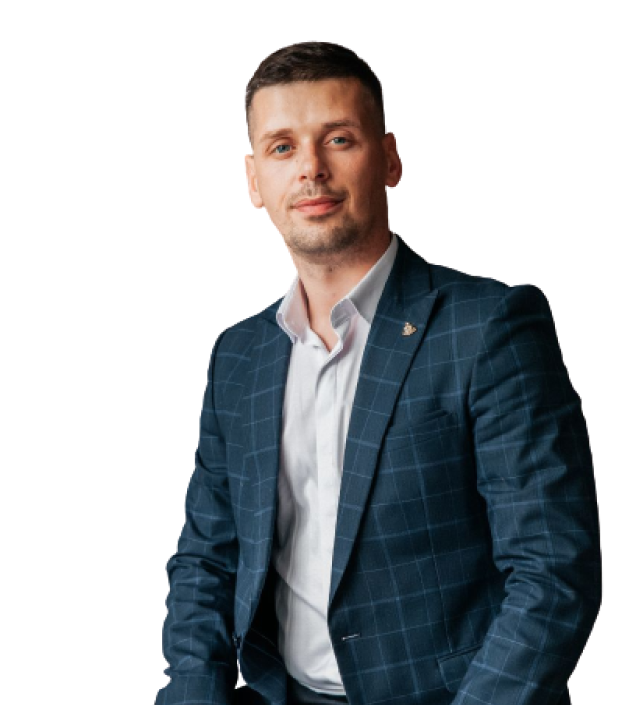
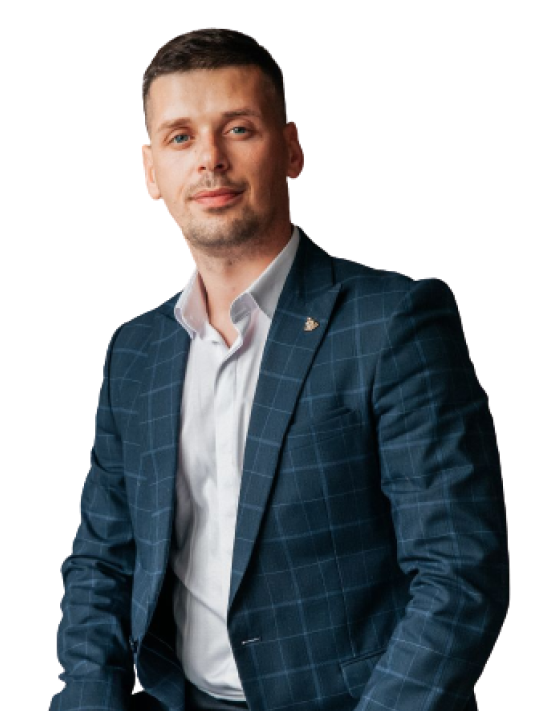
main done

diff --git a/css/styles.min.css b/css/styles.min.css
@@ -1,1 +1,1 @@
-*{font-family:'Gilroy'}.menu{max-height:76px;padding-top:14px;position:fixed;width:100%;background-color:rgba(0,0,0,0.2);z-index:2}.menu a{text-decoration:none}.menu_list{display:-webkit-box;display:-ms-flexbox;display:flex;margin-top:11px;list-style-type:none}.menu_list_item{margin-right:40px;font-style:normal;font-weight:400;font-size:18px;color:#f5f5f5;-webkit-transition:0.5s;transition:0.5s}.menu_list_item:hover{color:#f5f5f5;border-bottom:2px solid #DB3130}.menu_connect_number{display:block;font-style:normal;font-weight:400;font-size:16px;color:#f5f5f5}.menu_connect_number:hover{color:#f5f5f5}.menu_connect_img{margin-right:9px}.menu_connect_text{display:inline-block;font-style:normal;font-weight:400;font-size:14px;color:#f5f5f5;-webkit-transition:.1s;transition:.1s}.menu_connect_text:hover{color:#DB3130}.menu_inst{display:block;width:48px;height:48px;background-color:#DB3130;border-radius:24px;text-align:center}.menu_inst_img{-webkit-transform:translateY(50%);transform:translateY(50%)}.main{max-height:732px;background:url("../img/main_bg.jpg") center center/cover no-repeat;background-color:#584D36;z-index:1;width:100%}.main_title{font-style:normal;font-weight:600;font-size:39px;color:#f5f5f5;margin-top:220px}.main_title span{border-bottom:2px solid #DB3130}.main_name{margin-top:20px;font-style:normal;font-weight:800;font-size:70px;line-height:69px;color:#f5f5f5}.main_text{font-style:normal;font-weight:500;font-size:16px;line-height:26px;margin-top:20px;color:#f5f5f5}.main_btn{text-align:center;width:251px;height:54px;left:162px;background-color:#DB3130;border:none;border-radius:14px;color:#f5f5f5;margin-top:20px}.main_btn:hover{-webkit-box-shadow:0px 8px 60px rgba(219,49,48,0.5);box-shadow:0px 8px 60px rgba(219,49,48,0.5)}.main_btn:focus{-webkit-box-shadow:0px 8px 60px rgba(219,49,48,0.5);box-shadow:0px 8px 60px rgba(219,49,48,0.5)}.main_btn:visited,.main_btn:focus,.main_btn:active,.main_btn:hover{outline:0 none !important}.types{background:url("../img/cards_bg.jpg") center center/cover no-repeat;height:270px;padding-top:40px;text-align:center;width:100%}.types_card{width:255px;height:190px;padding-top:19px;background-color:#f5f5f5;-webkit-filter:drop-shadow(0px 20px 50px rgba(52,48,38,0.6));filter:drop-shadow(0px 20px 50px rgba(52,48,38,0.6));border-radius:8px}.types_card_img{margin-bottom:15px}.types_card_text{font-style:normal;font-weight:500;font-size:25px;color:#000}.stages{min-height:620px;padding:40px 0 55px 0;background:url("../img/check_points.jpg") center center/cover no-repeat;position:relative}.stages .wrap{display:-webkit-box;display:-ms-flexbox;display:flex;margin-top:60px;-webkit-box-align:center;-ms-flex-align:center;align-items:center}.stages_title{font-style:normal;font-weight:700;font-size:50px;color:#3D3D30}.stages_img{width:87px;height:87px;margin:0 10px 0 0}.stages_block{width:340px}.stages_block_title{font-style:normal;font-weight:500;font-size:25px;color:#3D3D30}.stages_block_text{font-style:normal;font-weight:500;font-size:18px;color:#3D3D30}
+*{font-family:'Gilroy'}.menu{max-height:76px;padding-top:14px;position:fixed;width:100%;z-index:2}.menu a{text-decoration:none}.menu_list{display:-webkit-box;display:-ms-flexbox;display:flex;margin-top:11px;list-style-type:none;padding-left:0}.menu_list li{margin-right:40px}.menu_list li:last-child{margin-left:130px;margin-right:0}.menu_list_item{font-style:normal;font-weight:400;font-size:18px;color:#f5f5f5;-webkit-transition:0.5s;transition:0.5s}.menu_list_item:hover{color:#f5f5f5;border-bottom:2px solid #DB3130}.menu_connect_number{font-style:normal;font-weight:400;font-size:17px;letter-spacing:2px;color:#f5f5f5;border-bottom:2px solid #DB3130;padding-bottom:2px}.menu_connect_number:hover{color:#f5f5f5}.menu_connect_img{margin-right:9px}.menu_connect_text{display:inline-block;font-style:normal;font-weight:400;font-size:15px;color:#f5f5f5;-webkit-transition:.1s;transition:.1s;letter-spacing:2px}.menu_connect_text:hover{color:#DB3130;cursor:pointer}.menu_inst{display:block;position:absolute;width:48px;height:48px;background-color:#DB3130;border-radius:24px;text-align:center;left:207px;top:0px}.menu_inst_img{-webkit-transform:translateY(50%);transform:translateY(50%)}.main{max-height:732px;background:url("../img/main_bg.jpg") center center/cover no-repeat;background-color:#584D36;z-index:1;width:100%}.main hr{margin:-10px 0 0 90px;width:160px;height:5px;border:none;border-radius:48px;background-color:#DB3130}.main_title{font-style:normal;font-weight:600;font-size:39px;color:#f5f5f5;margin-top:220px}.main_name{margin-top:10px;font-style:normal;font-weight:800;font-size:70px;line-height:69px;color:#f5f5f5}.main_text{font-style:normal;font-weight:500;font-size:16px;line-height:26px;margin-top:20px;color:#f5f5f5}.main_btn{text-align:center;width:251px;height:54px;left:162px;background-color:#DB3130;border:none;border-radius:14px;color:#f5f5f5;margin-top:20px}.main_btn:hover{-webkit-box-shadow:0px 8px 60px rgba(219,49,48,0.5);box-shadow:0px 8px 60px rgba(219,49,48,0.5)}.main_btn:focus{-webkit-box-shadow:0px 8px 60px rgba(219,49,48,0.5);box-shadow:0px 8px 60px rgba(219,49,48,0.5)}.main_btn:visited,.main_btn:focus,.main_btn:active,.main_btn:hover{outline:0 none !important}.main_img{margin-left:-25px}.types{background:url("../img/cards_bg.jpg") center center/cover no-repeat;height:270px;padding-top:40px;text-align:center;width:100%}.types_card{width:255px;height:190px;padding-top:19px;background-color:#f5f5f5;-webkit-filter:drop-shadow(0px 20px 50px rgba(52,48,38,0.6));filter:drop-shadow(0px 20px 50px rgba(52,48,38,0.6));border-radius:8px}.types_card_img{margin-bottom:15px}.types_card_text{font-style:normal;font-weight:500;font-size:25px;color:#000}.stages{min-height:620px;padding:40px 0 55px 0;background:url("../img/check_points.jpg") center center/cover no-repeat;position:relative}.stages .wrap{display:-webkit-box;display:-ms-flexbox;display:flex;margin-top:60px;-webkit-box-align:center;-ms-flex-align:center;align-items:center}.stages_title{font-style:normal;font-weight:700;font-size:50px;color:#3D3D30}.stages_img{width:87px;height:87px;margin:0 10px 0 0}.stages_block{width:340px}.stages_block_title{font-style:normal;font-weight:500;font-size:25px;color:#3D3D30}.stages_block_text{font-style:normal;font-weight:500;font-size:18px;color:#3D3D30}

diff --git a/scss/_general.scss b/scss/_general.scss
@@ -7,7 +7,6 @@
     padding-top: 14px;
     position: fixed;
     width: 100%;
-    background-color: rgba(0, 0, 0, 0.2);
     z-index: 2;
     a {
         text-decoration: none;
@@ -16,8 +15,15 @@
         display: flex;
         margin-top: 11px;
         list-style-type: none;
-        &_item {
+        padding-left: 0;
+        li {
             margin-right: 40px;
+        }
+        li:last-child {
+            margin-left: 130px;
+            margin-right: 0;
+        }
+        &_item {
             font-style: normal;
             font-weight: 400;
             font-size: 18px;
@@ -31,11 +37,13 @@
     }
     &_connect {
         &_number {
-            display: block;
             font-style: normal;
             font-weight: 400;
-            font-size: 16px;
+            font-size: 17px;
+            letter-spacing: 2px;
             color: $White;
+            border-bottom: 2px solid $Red;
+            padding-bottom: 2px;
             &:hover {
                 color: $White;
             }
@@ -47,21 +55,26 @@
             display: inline-block;
             font-style: normal;
             font-weight: 400;
-            font-size: 14px;
+            font-size: 15px;
             color: $White;
             transition: .1s;
+            letter-spacing: 2px;
             &:hover {
                 color: $Red;
+                cursor: pointer;
             }
         }
     }
     &_inst {
         display: block;
+        position: absolute;
         width: 48px;
         height: 48px;
         background-color: $Red;
         border-radius: 24px;
         text-align: center;
+        left: 207px;
+        top: 0px;
         &_img {
             transform: translateY(50%);
         }
@@ -74,18 +87,27 @@
     background-color: #584D36;
     z-index: 1;
     width: 100%;
+    hr {
+        margin: -10px 0 0 90px;
+        width: 160px;
+        height: 5px;
+        border: none;
+        border-radius: 48px;
+        background-color: $Red;
+    }
     &_title {
         font-style: normal;
         font-weight: 600;
         font-size: 39px;
         color: $White;
         margin-top: 220px;
-        span {
-            border-bottom: 2px solid $Red;
-        }
+        // span {
+        //     border-bottom: 5px solid $Red;
+        //     border-radius: px;
+        // }
     }
     &_name {
-        margin-top: 20px;
+        margin-top: 10px;
         font-style: normal;
         font-weight: 800;
         font-size: 70px;
@@ -122,6 +144,9 @@
         &:hover {
             outline: 0 none !important;
         }
+    }
+    &_img {
+        margin-left: -25px;
     }
 }
 

diff --git a/index.html b/index.html
@@ -26,13 +26,14 @@
                         <li><a href="#" class="menu_list_item">Контакты</a></li>
                     </ul>
                 </nav>
-                <div class=" col-md-2 menu_connect">
-                    <a href="tel:+375292900600" class="menu_connect_number">+375(29)2-900-600</a>
-                    <img src="./img/tel_small.png" alt="phone" class="menu_connect_img">
-                    <p class="menu_connect_text">Заказать звонок</p>
-                </div>
-                <div class="col-md-1">
-                    <a href="#" class="menu_inst  ">
+                <div class=" col-md-3 menu_connect">
+                    <div>
+                        <a href="tel:+375292900600" class="menu_connect_number">+375(29)2-900-600</a>
+                        <br>
+                        <img src="./img/tel_small.png" alt="phone" class="menu_connect_img">
+                        <p class="menu_connect_text">Заказать звонок</p>
+                    </div>
+                    <a href="#" class="menu_inst">
                         <img src="./img/main_inst.png" alt="inst" class="menu_inst_img">
                     </a>
                 </div>
@@ -44,11 +45,12 @@
             <div class="row">
                 <div class="col-md-5">
                     <h2 class="main_title">Ваш <span>ведущий</span></h2>
+                    <hr>
                     <h2 class="main_name">Стреха<br>Дмитрий</h2>
                     <p class="main_text">Сделаю уникальный сценарий для вашего мероприятия, <br> который понравится всем гостям</p>
                     <button class="main_btn">Обсудить мероприятие </button>
                 </div>
-                <div class="col-md-7">
+                <div class="col-md-6">
                     <img src="./img/photo.png" alt="photo" class="main_img">
                 </div>
             </div>
